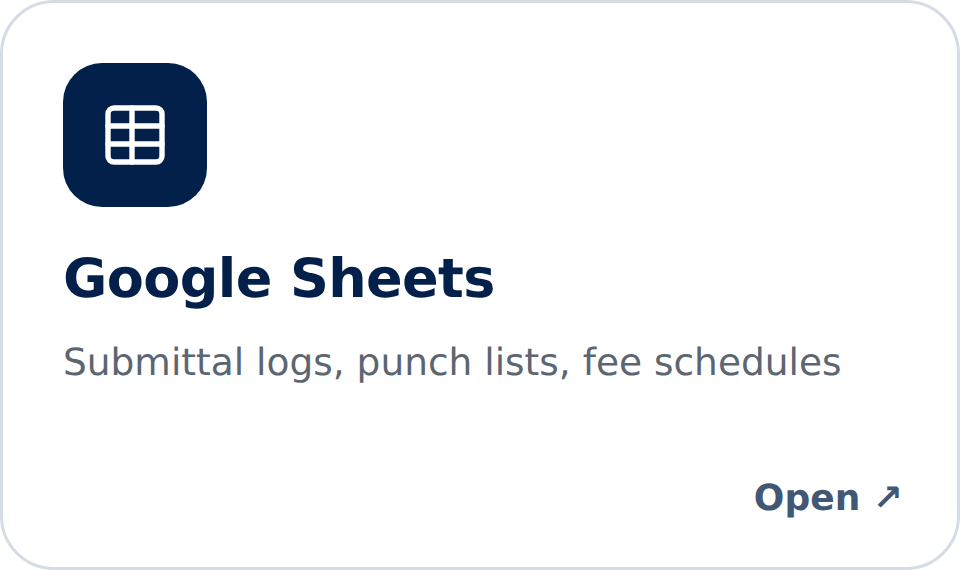
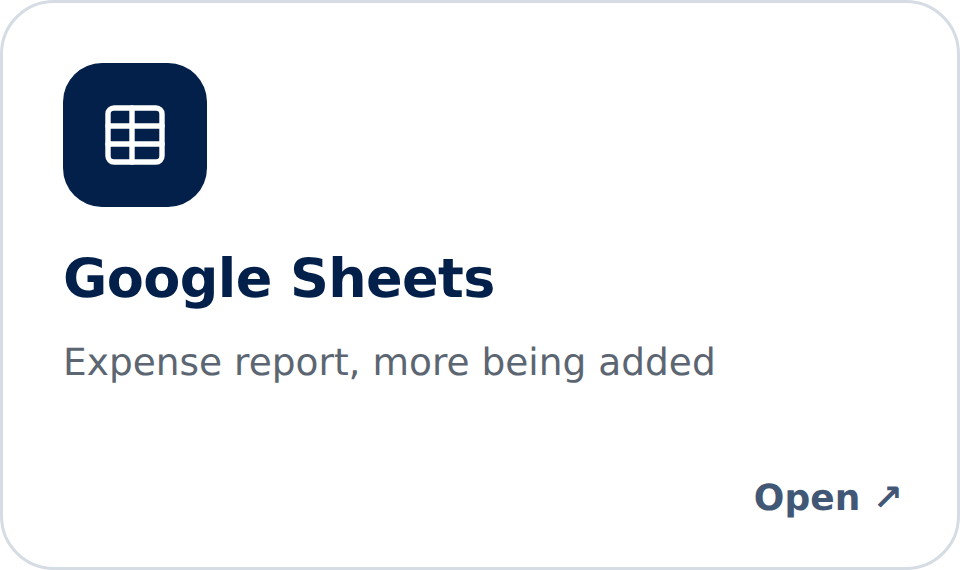
Point the Templates blurbs at what the galleries hold
The blurbs described what a template gallery usually holds rather than
what these ones do. A card promising a punch list template teaches people
the hub lies to them, so each now names the real contents -- including
Sheets, which is honest about still being filled in.

Drops the IT form and expense-sheet build scripts and their button
images: IT declined the issue sheet, HR declined the expense form.

Claude-Session: https://claude.ai/code/session_01YAQcUYpy57Up3cir28mVUA

Changed region(s): [[0.0625, 0.5965, 0.875, 0.686]]

diff --git a/design/bnr/_ql.html b/design/bnr/_ql.html
@@ -1,0 +1,14 @@
+<link href="https://fonts.googleapis.com/css2?family=Montserrat:wght@400;500;600;700&display=swap" rel="stylesheet">
+<style>
+ :root{--ui:'Montserrat',-apple-system,'Segoe UI',Roboto,Arial,sans-serif;--navy:#022049}
+ *{box-sizing:border-box;margin:0;padding:0}
+ body{width:1100px;background:#fff;font-family:var(--ui)}
+ .band{background-size:cover;background-position:center;padding:42px 50px 52px}
+ .col{max-width:1000px;margin:0 auto;display:grid;grid-template-columns:repeat(3,1fr);gap:40px}
+ h3{font:700 12px var(--ui);letter-spacing:.16em;text-transform:uppercase;color:#fff;
+    padding-bottom:10px;border-bottom:2px solid rgba(255,255,255,.45);margin-bottom:16px}
+ .lk{display:block;margin-bottom:16px;text-decoration:none}
+ .lk b{display:block;font:600 14px/1.35 var(--ui);color:#fff}
+ .lk span{display:block;font:400 11.5px var(--ui);color:#9FB6D2;margin-top:3px}
+ .lk em{font-style:normal;color:#E4B363}
+</style><div class="band" style="background-image:url('bg/grid-banner-flat.png')"><div class="col"><div><h3>Codes</h3><a class="lk"><b>ICC Digital I-Codes</b><span>codes.iccsafe.org</span></a><a class="lk"><b>Colorado Wildfire Resiliency Code</b><span>dfpc.colorado.gov</span></a><a class="lk"><b>Colorado Building Energy Codes</b><span>energyoffice.colorado.gov</span></a></div><div><h3>Pitkin County</h3><a class="lk"><b>Community Development</b><span>pitkincounty.com</span></a><a class="lk"><b>County Code: Title 8 - Land Use</b><span>pitkincounty.com</span></a><a class="lk"><b>Permitting - SagesGov</b><span>sagesgov.com &middot; <em>personal login</em></span></a></div><div><h3>City of Aspen</h3><a class="lk"><b>Community Development</b><span>aspen.gov</span></a><a class="lk"><b>Municipal Code: Title 26</b><span>library.municode.com</span></a><a class="lk"><b>Permitting - Salesforce</b><span>cityofaspen.my.site.com &middot; <em>personal login</em></span></a></div></div></div>

diff --git a/design/gen_update_v2.py b/design/gen_update_v2.py
@@ -128,12 +128,15 @@ CARDS = [("quick-links", "link-external", "Quick Links",
           "Codes, Pitkin County, City of Aspen"),
          # The Templates page. Blurbs name what is actually in 02 Templates
          # rather than describing the app -- nobody needs telling what Docs is.
+         # Blurbs name what is in each gallery today, not what a gallery
+         # like this usually holds. A card that promises a punch list
+         # template teaches people the hub lies to them.
          ("google-docs",   "ft-doc",    "Google Docs",
-          "Transmittals, minutes, RFIs, proposals"),
+          "Letterhead, meeting notes, RFPs"),
          ("google-slides", "gs-slides", "Google Slides",
-          "Client presentations, design reviews"),
+          "Concept, SD, DD and CD presentations"),
          ("google-sheets", "gs-sheets", "Google Sheets",
-          "Submittal logs, punch lists, fee schedules")]
+          "Expense report, more being added")]
 
 async def cards(b):
     pg = await b.new_page(viewport={"width": 900, "height": 400}, device_scale_factor=3)
